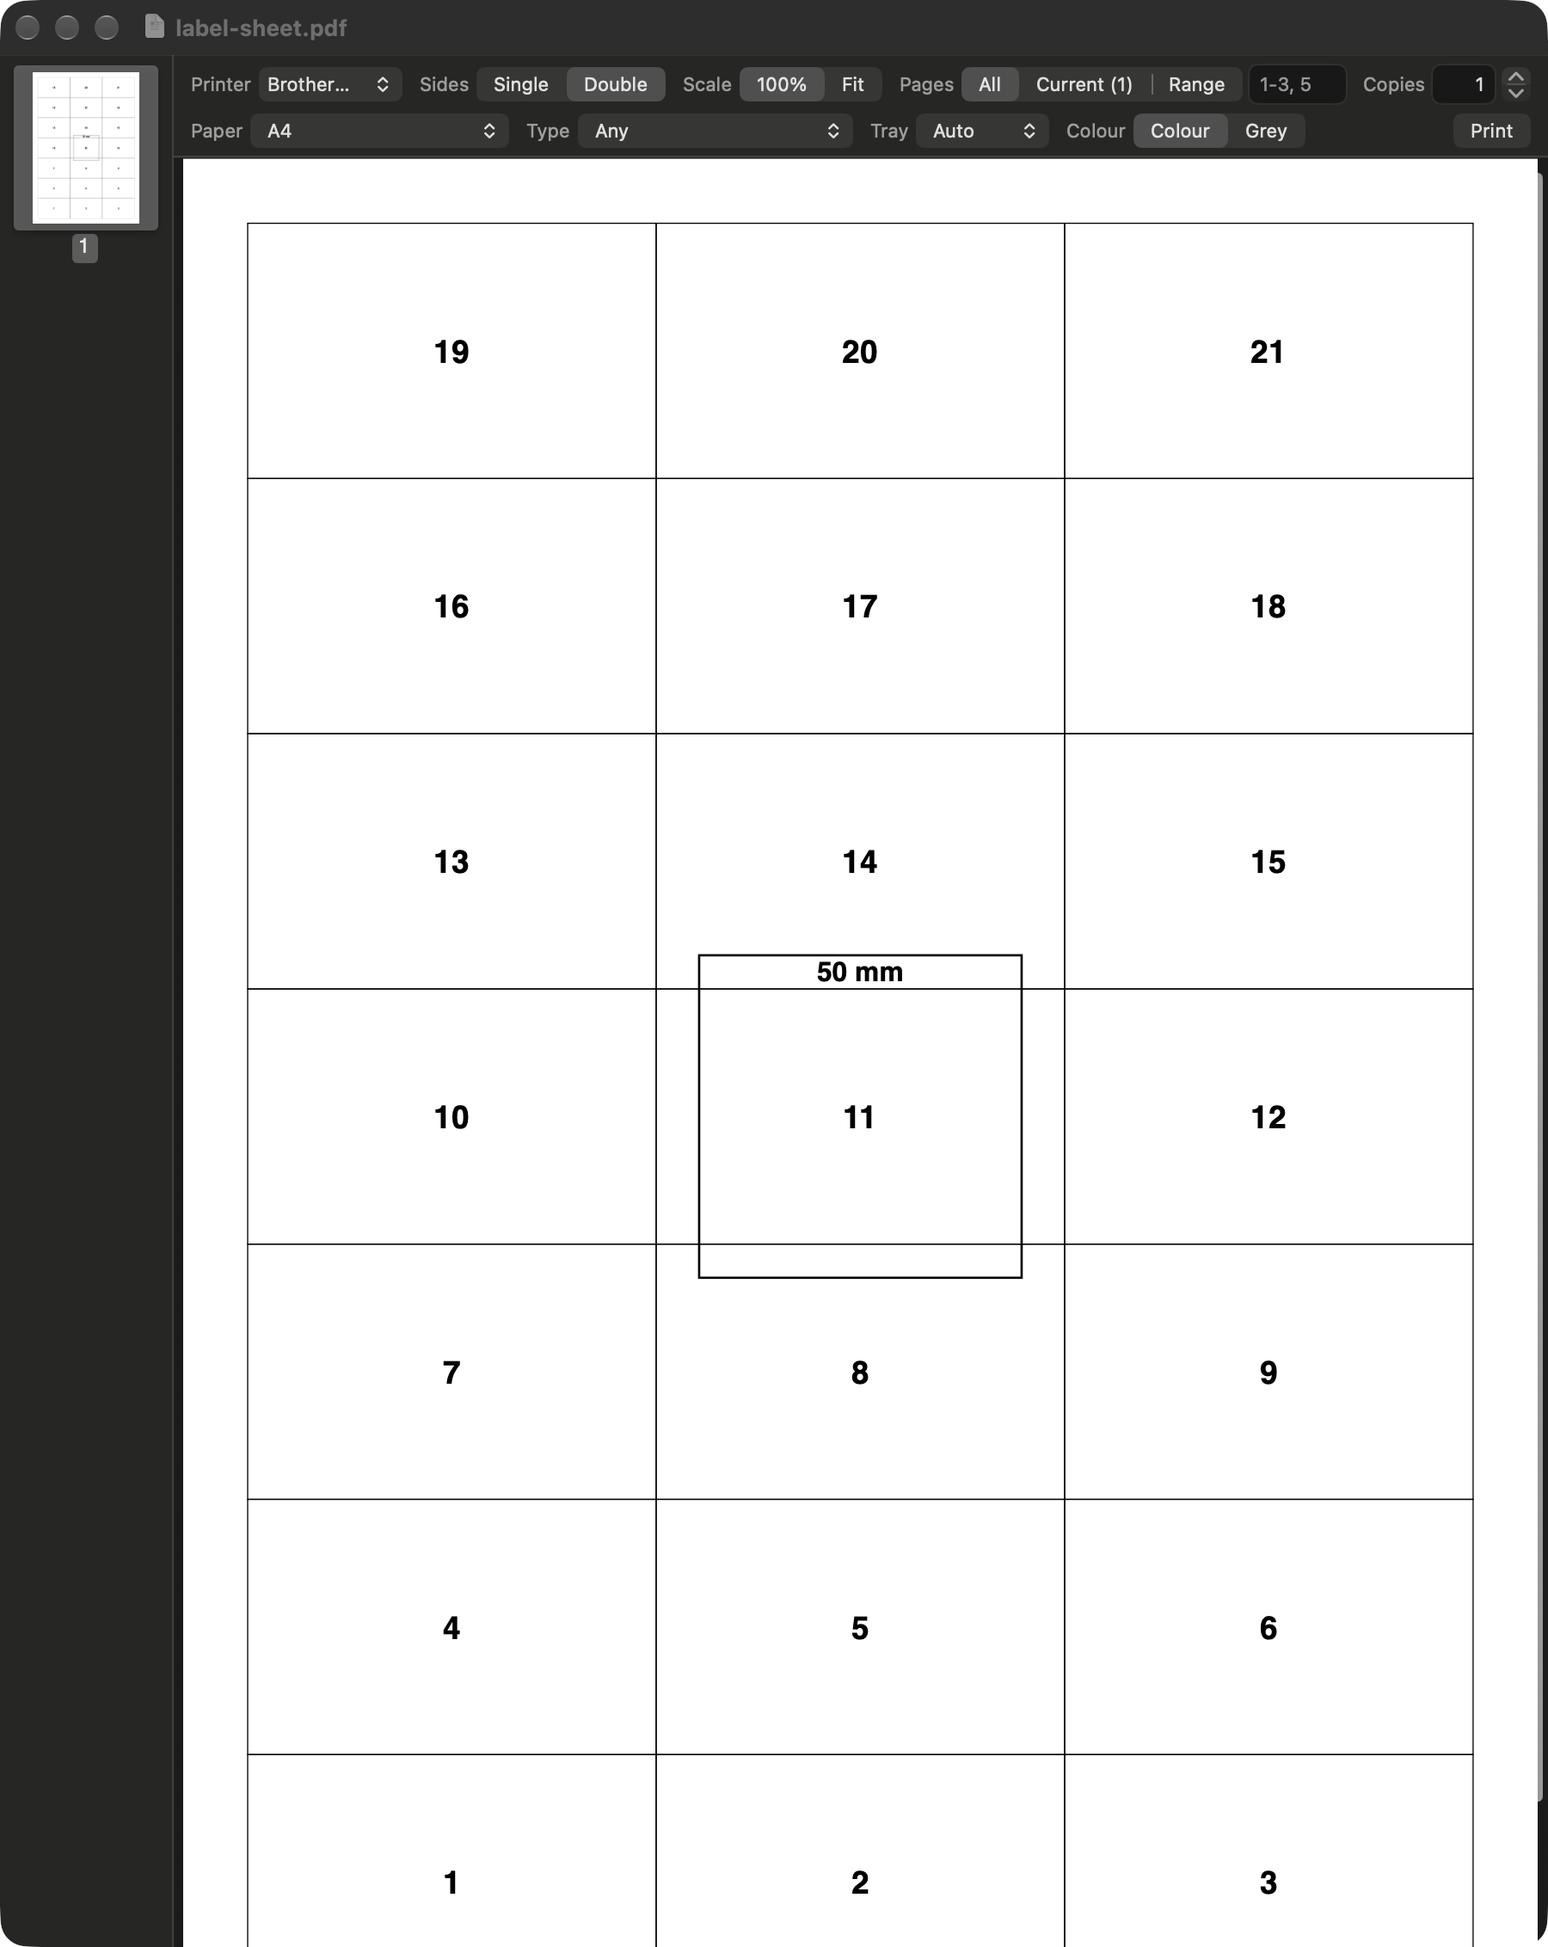
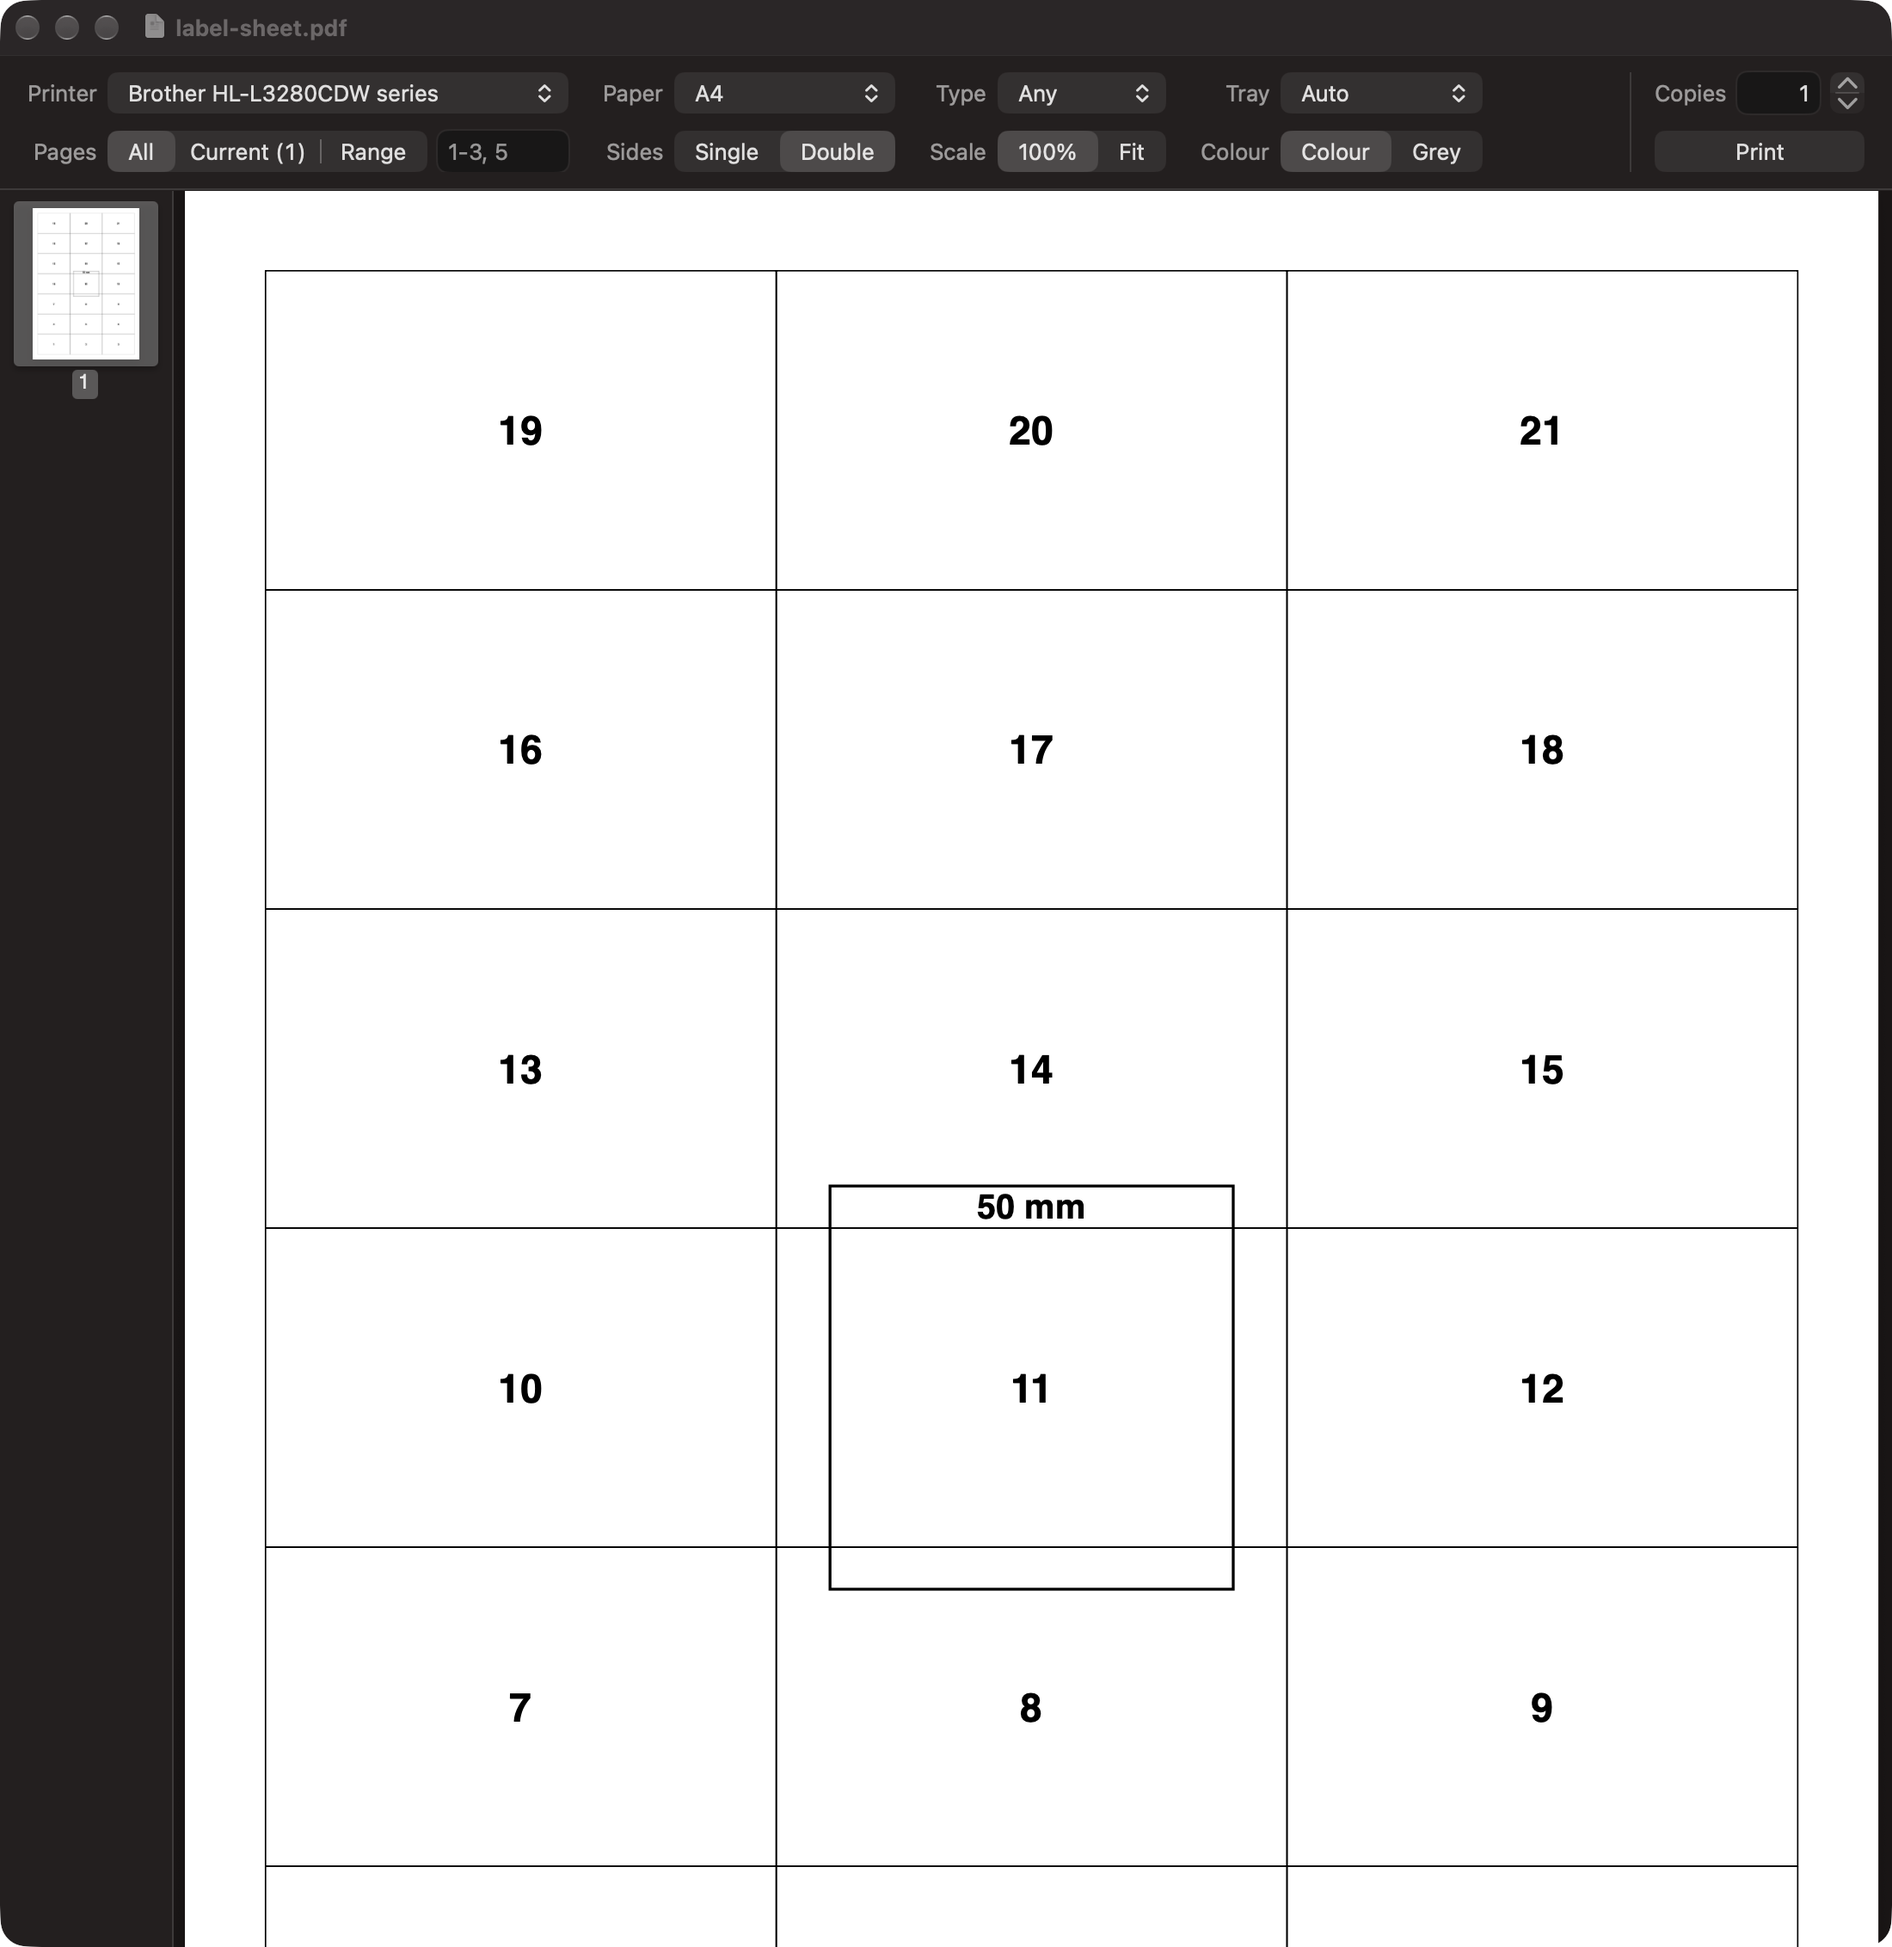
README: screenshot, alt text and print-bar description show the current bar
The screenshot and text predated the bar redesign (which shipped in
v0.1.0): the bar now spans the window, Printer/Paper/Type/Tray on the
first row and Pages/Sides/Scale/Colour on the second, Copies above
Print. Recaptured from the label-sheet fixture.

diff --git a/README.md b/README.md
@@ -12,7 +12,7 @@ single- and double-sided, then find the scale setting and move it from Scale to 
 roneo is a fast native PDF viewer that keeps those controls in the window. The print bar shows
 every setting the job will use, and Print sends the PDF straight to the printer at true 100%.
 
-![roneo showing a label sheet, with the print bar above the page: printer, sides, scale, pages and copies on the first row; paper, type, tray and colour on the second](docs/screenshots/roneo.png)
+![roneo showing a label sheet, with the print bar across the window: printer, paper, type and tray on the first row; pages, sides, scale and colour on the second; copies and Print at the right](docs/screenshots/roneo.png)
 
 ## Install
 
@@ -37,9 +37,9 @@ just run      # build and launch build/roneo.app
   The view reloads when the file changes on disk, so a regenerated PDF reprints without
   reopening. Windows reopen where you left them. **roneo → Make roneo the default PDF viewer**
   sets it as the app PDFs open in.
-- **The print bar.** Always visible above the page: Printer, Sides (Single or Double), Scale
-  (100% or Fit), Pages (All, Current or a Range), Copies, then Paper, Type, Tray and Colour or
-  Grey as the printer offers them. Every new window starts from the same defaults: the system
+- **The print bar.** Always visible across the top of the window: Printer, Paper, Type and Tray
+  as the printer offers them, then Pages (All, Current or a Range), Sides (Single or Double),
+  Scale (100% or Fit) and Colour or Grey, with Copies above Print. Every new window starts from the same defaults: the system
   default printer, its own sides, paper, type, tray and colour, 100%, all pages, one copy.
   Double binds on the long edge, or the short edge when the first page is landscape.
 - **What Print sends.** The Print button sends the PDF file itself to the printer, never a
